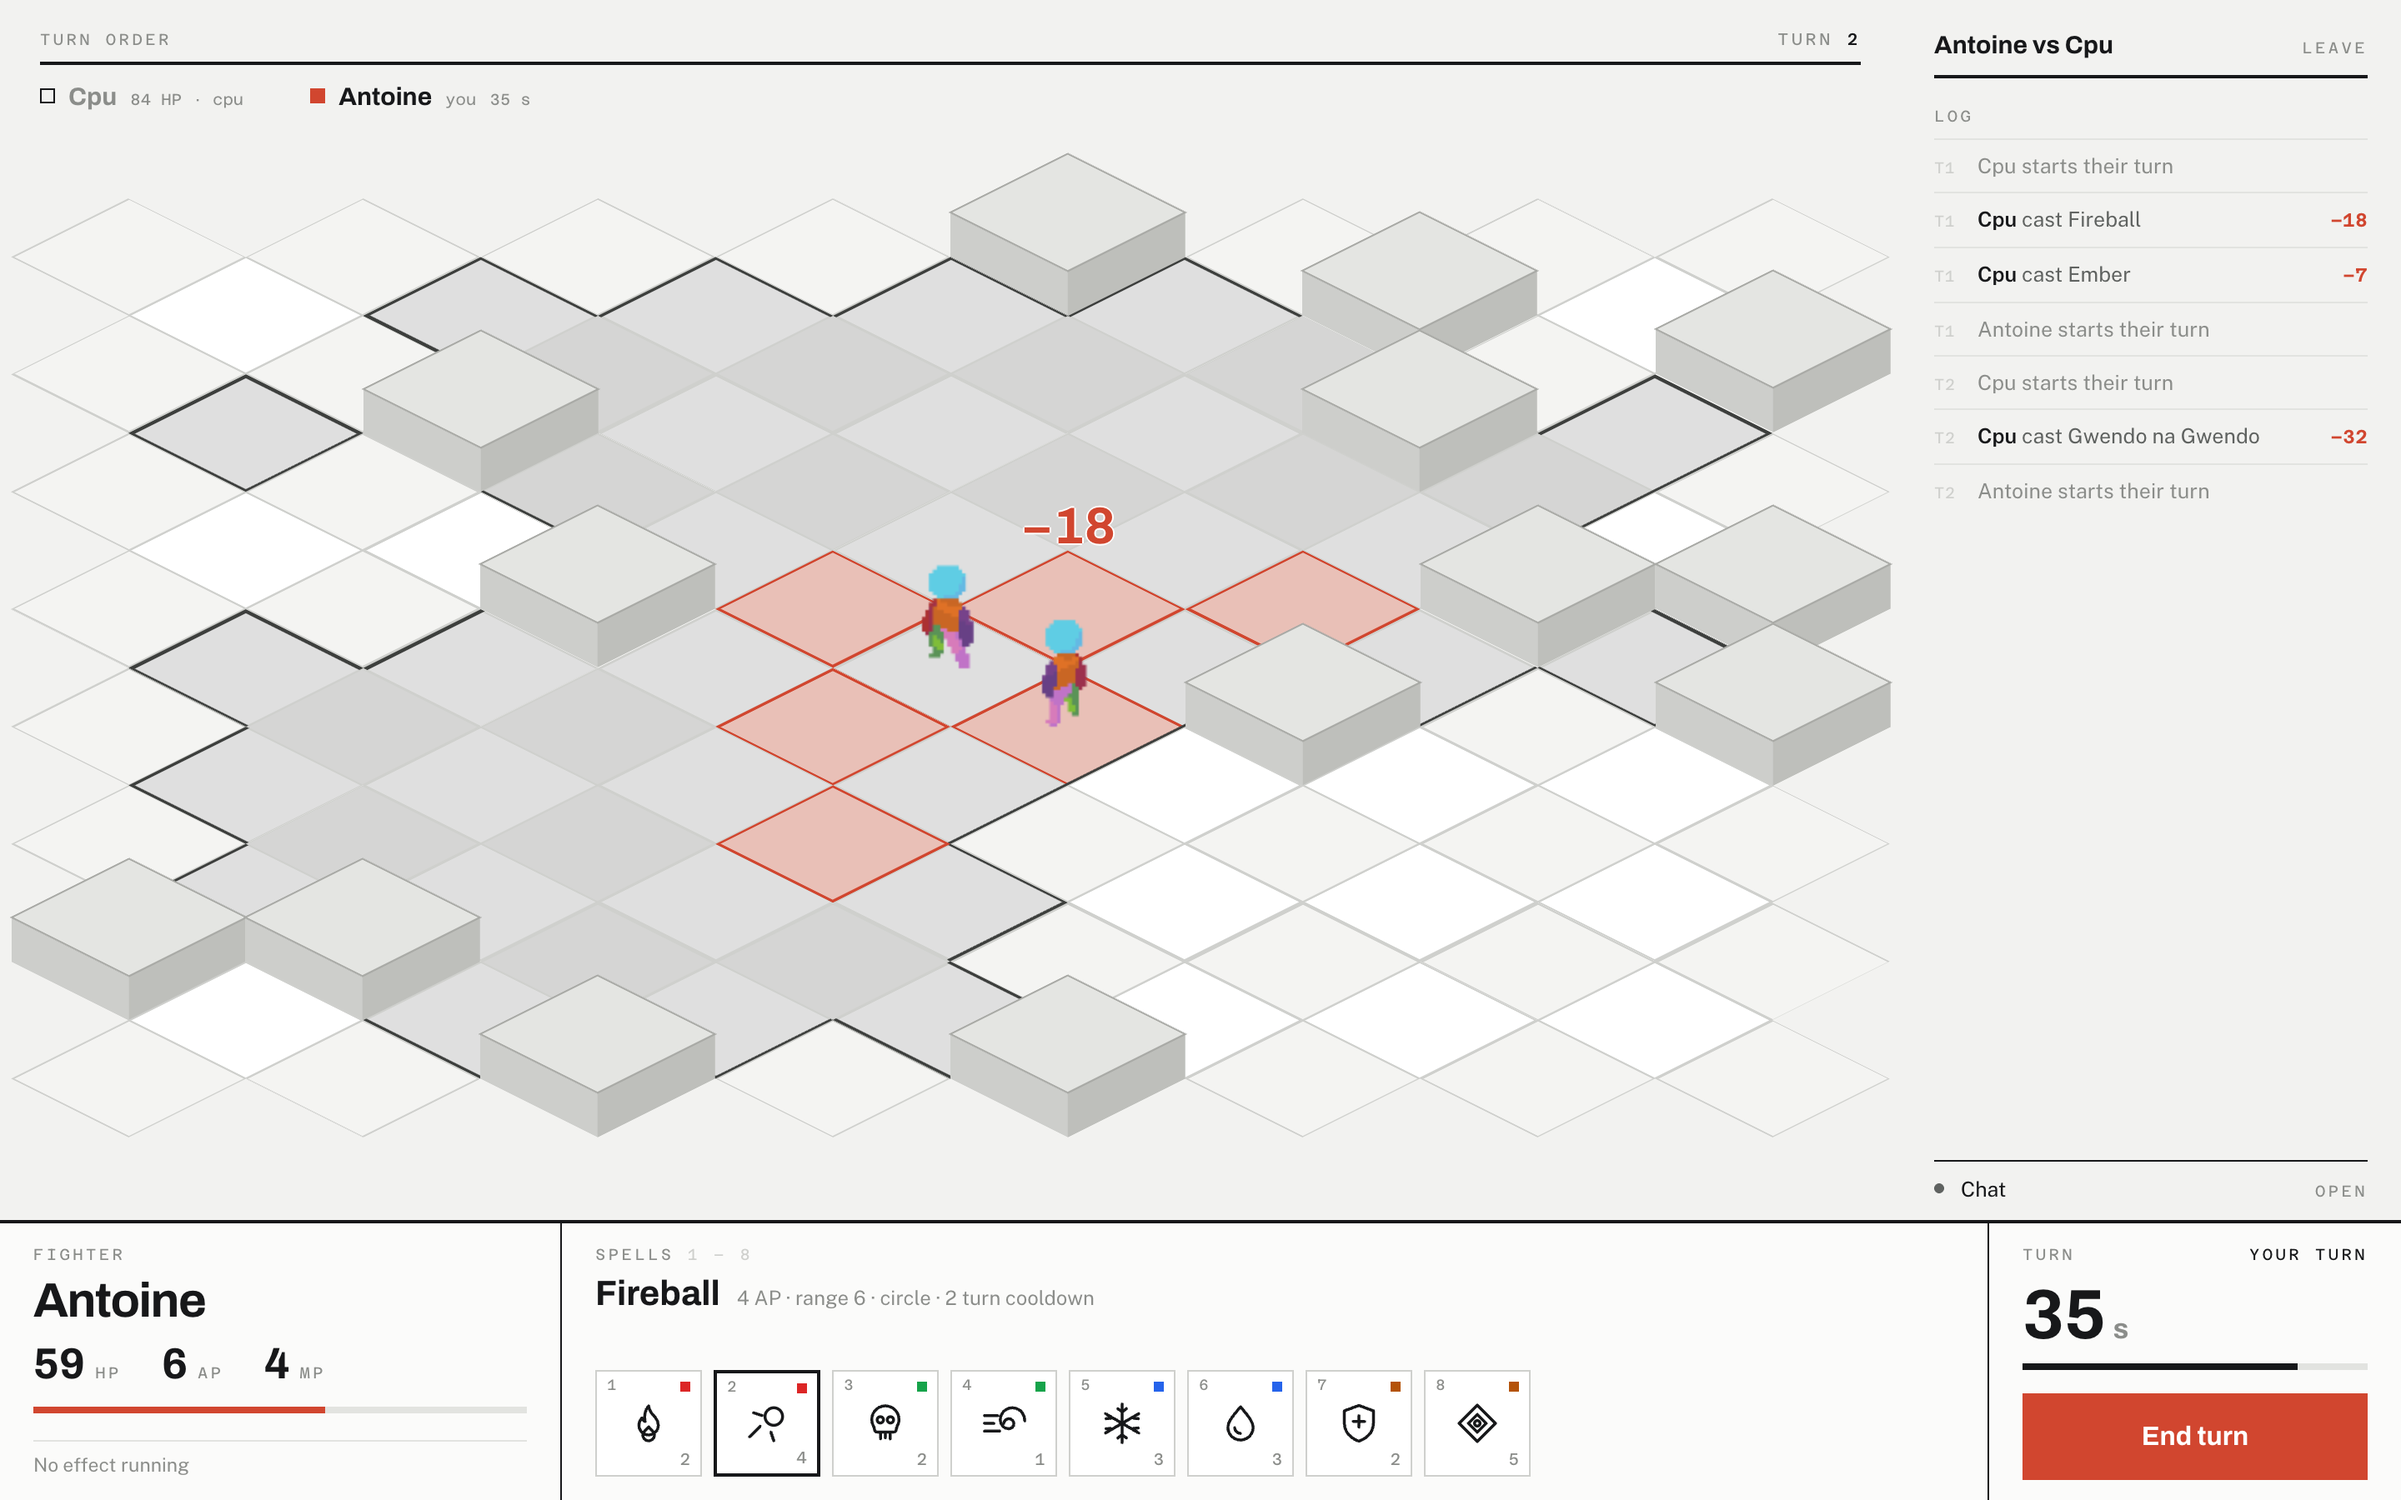
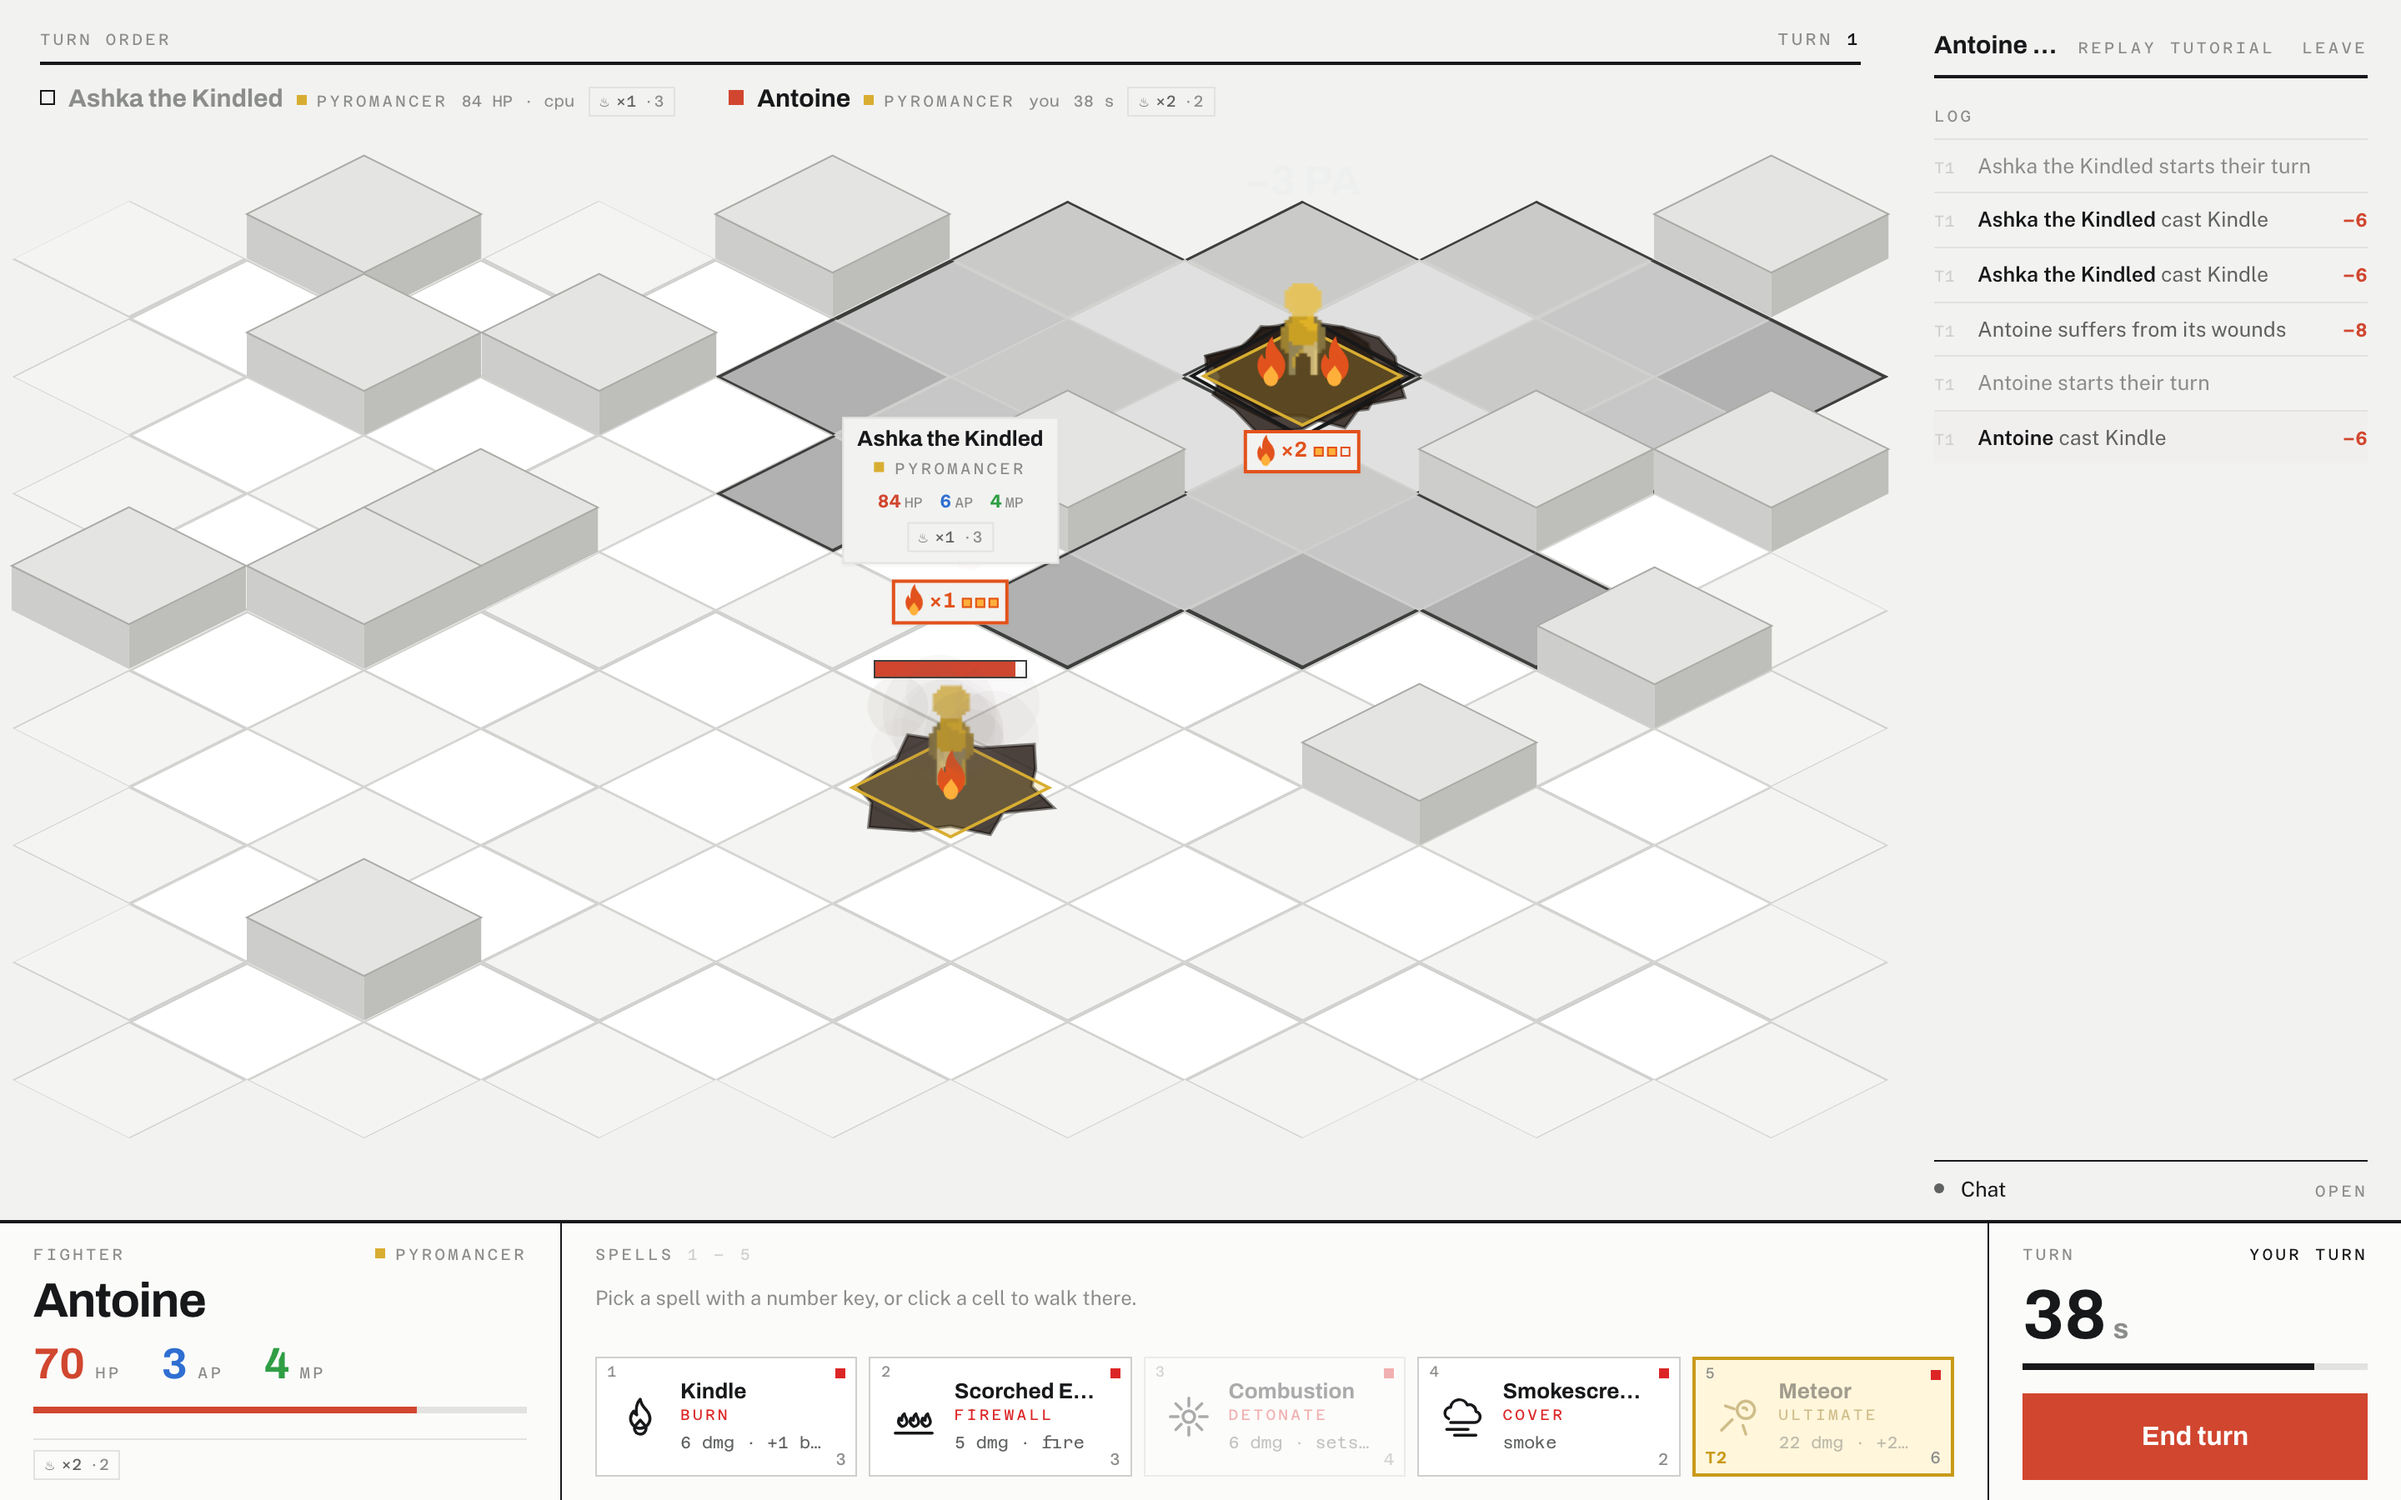
docs: reshoot the README for the new kits, and script the shoot
The screenshots and the demo GIF still showed an eight-spell bar and a
Fireball. They are reshot against a real server by a script — the same
fight twice, on a desk and on a phone held sideways — so an asset cannot
drift from the game again: a wall of fire laid across the board, the
bot's Meteor and its crater, burn counters over both fighters, and the
spell bar naming what each spell is for. The phone gets its own home
screen, HUD shot and GIF.

diff --git a/README.md b/README.md
@@ -11,20 +11,27 @@ have a whole match to yourself. The server sleeps after 15 minutes on the free
 tier, so the first connection can take a minute to come back — the board loads
 instantly either way.
 
-![Naming a fighter, picking a starting cell in the green block while the opponent's is marked off in red, and a Fireball landing for 18](docs/assets/demo.gif)
+![Picking a starting cell in the green block, a wall of fire laid across the board, and the bot answering with a Meteor that leaves a crater](docs/assets/demo.gif)
 
 <table>
 <tr>
-<td width="50%"><img src="docs/assets/01-landing.png" alt="Naming a fighter, who stands on a few cells of the board"></td>
-<td width="50%"><img src="docs/assets/02-lobby.png" alt="Lobby: open games and a solo match against the computer"></td>
+<td width="50%"><img src="docs/assets/01-landing.png" alt="Naming a fighter and picking a class, whose passive and five spells read underneath"></td>
+<td width="50%"><img src="docs/assets/02-lobby.png" alt="Lobby: the class's own opponent to challenge, open games, and a game to create"></td>
 </tr>
 <tr>
 <td width="50%"><img src="docs/assets/03-placement.png" alt="Placement: three adjacent cells to start on, in green; the opponent's block is marked off in red"></td>
-<td width="50%"><img src="docs/assets/04-combat.png" alt="Combat: cast range outlined, area of effect marked, estimated damage above the target"></td>
+<td width="50%"><img src="docs/assets/04-combat.png" alt="Combat: a wall of fire and a crater left on the board, burn counters over both fighters, and the spell bar naming each spell's role"></td>
 </tr>
 </table>
 
-<img src="docs/assets/05-phone.png" alt="The same fight on a phone held sideways" width="100%">
+<table>
+<tr>
+<td width="50%"><img src="docs/assets/06-phone-home.png" alt="The phone's home screen: the fighter on a stand, its class and passive, one Play button"></td>
+<td width="50%"><img src="docs/assets/05-phone.png" alt="The same fight on a phone held sideways: the spells in an arc under the thumb, and a card explaining the fire a cell is carrying"></td>
+</tr>
+</table>
+
+![The same fight on a phone: a wall of fire, the bot's Meteor, and the spells in an arc under the thumb](docs/assets/demo-phone.gif)
 
 On a phone, hold it sideways. The lobby becomes a home screen: your fighter in
 the middle, arrows (or a swipe) to slide through the classes with the others
@@ -319,6 +326,10 @@ cd frontend && npm test               # isometric geometry, spell text, terrain,
 cd frontend && npm test -- --coverage # the same, failing if the phone HUD's logic loses coverage
 cd frontend && npm run lint && npm run build
 ```
+
+The README's screenshots and GIFs are shot by a script, against a real server,
+so they cannot drift from the game: see `frontend/scripts/shoot-readme.mjs`
+for the two commands.
 
 The phone layout's decisions — the spell arc's slots and folding, the class
 line-up, what the confirm bubble offers and where it opens, the board's tile
